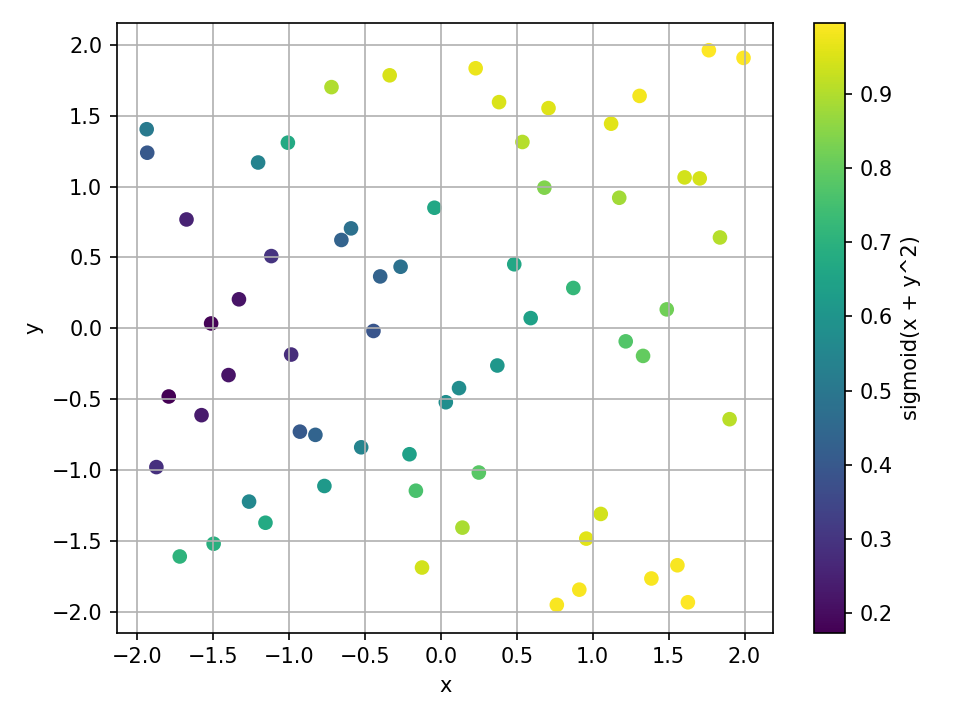
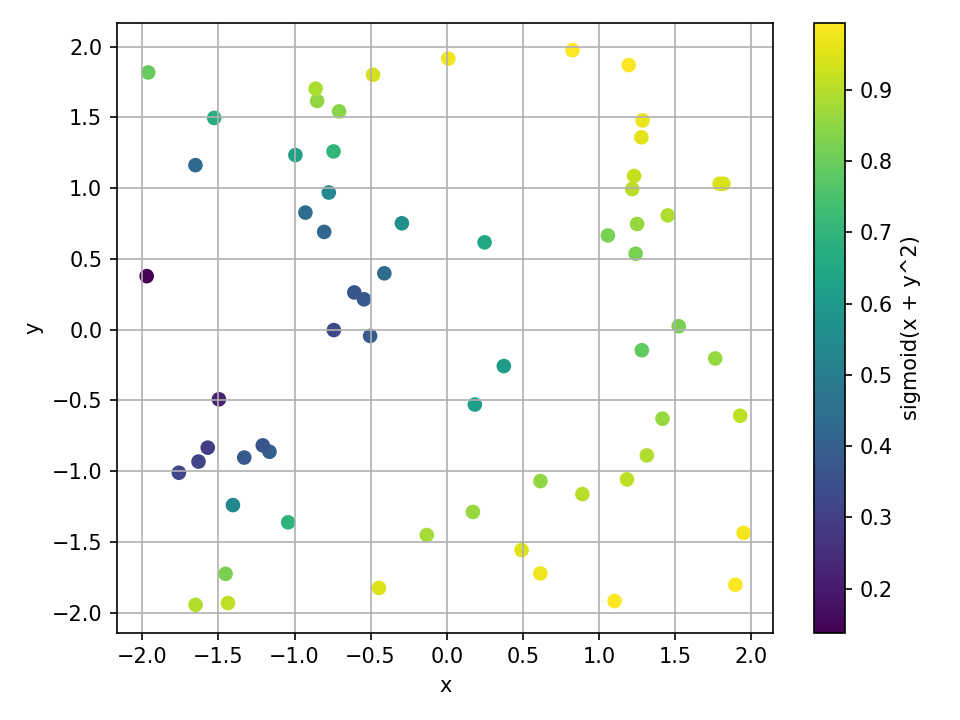
Ensure scripts save plots; fix Rosen SG level

diff --git a/scripts/demo_surroptim.py b/scripts/demo_surroptim.py
@@ -1,10 +1,16 @@
 """Demo script: SurrOptim sampling and metamodeling."""
 
+import os
 import numpy as np
+import matplotlib
+matplotlib.use("Agg")
 import matplotlib.pyplot as plt
 
 from surroptim.sampler import sampler_old_cls as sampler_cls
 from surroptim.polynomial_meta_models import polynomial_lasso_regressor
+
+
+os.makedirs("plots", exist_ok=True)
 
 # ============================================================================
 # 1. Simple sparse grid sampling
@@ -25,7 +31,9 @@ plt.xlabel("x (log-uniform: [-2, 2])")
 plt.ylabel("y (uniform: [-2, 2])")
 plt.grid()
 plt.title("Sparse Grid Samples")
-plt.show()
+plt.tight_layout()
+plt.savefig("plots/demo_sparse_grid_samples.png", dpi=150)
+plt.close()
 
 # ============================================================================
 # 1b. Sparse grid with log-uniform (requires positive bounds)
@@ -46,7 +54,9 @@ plt.xlabel("x (log-uniform: [-2, 2])")
 plt.ylabel("y (uniform: [-2, 2])")
 plt.grid()
 plt.title("Sparse Grid Samples (Log-Uniform)")
-plt.show()
+plt.tight_layout()
+plt.savefig("plots/demo_sparse_grid_samples_log_uniform.png", dpi=150)
+plt.close()
 
 # ============================================================================
 # 2. Incremental sampling with QoI evaluation and active_keys
@@ -107,7 +117,8 @@ ax.grid(True, alpha=0.3)
 ax.legend()
 plt.colorbar(ax.collections[0], ax=ax, label='Sigmoid QoI')
 plt.tight_layout()
-plt.show()
+plt.savefig("plots/demo_incremental_sampling_qrs.png", dpi=150)
+plt.close(fig)
 
 # ============================================================================
 # 3. Train metamodel and predict on grid
@@ -150,7 +161,8 @@ ax.grid(True, alpha=0.3)
 ax.legend()
 plt.colorbar(sc_train, ax=ax, label='Sigmoid QoI')
 plt.tight_layout()
-plt.show()
+plt.savefig("plots/demo_model_predictions_test_set.png", dpi=150)
+plt.close(fig)
 
 # ============================================================================
 # 4. Contour plot on grid
@@ -198,6 +210,7 @@ ax.set_title("Polynomial Model Contour + Training Points")
 ax.legend()
 ax.grid(True, alpha=0.2)
 plt.tight_layout()
-plt.show()
+plt.savefig("plots/demo_polynomial_model_contour.png", dpi=150)
+plt.close(fig)
 
 print("\n✓ Demo completed successfully!")

diff --git a/scripts/generate_rosen_plots.py b/scripts/generate_rosen_plots.py
@@ -19,14 +19,16 @@ def rosen_qoi(X: np.ndarray) -> np.ndarray:
 
 def main() -> None:
     os.makedirs("plots", exist_ok=True)
-    cases = [("QRS", 64), ("LHS", 64), ("PRS", 64), ("SG", 3)]
+    # Note: for doe_type='SG', the sampler interprets N as sparse-grid refinement level.
+    # In 2D, level=5 yields 65 points (close to 64) for a fair visual comparison.
+    cases = [("QRS", 64), ("LHS", 64), ("PRS", 64), ("SG", 5)]
 
     for doe, N in cases:
         sampler = sampler_cls(
             distributions=["uniform", "uniform"],
             bounds=[[-2, 2], [-2, 2]],
             qoi_fn=rosen_qoi,
-            n_out=2,
+            DOE_type=doe,
         )
         sampler.sample(N=N)
         prediction_plot(
